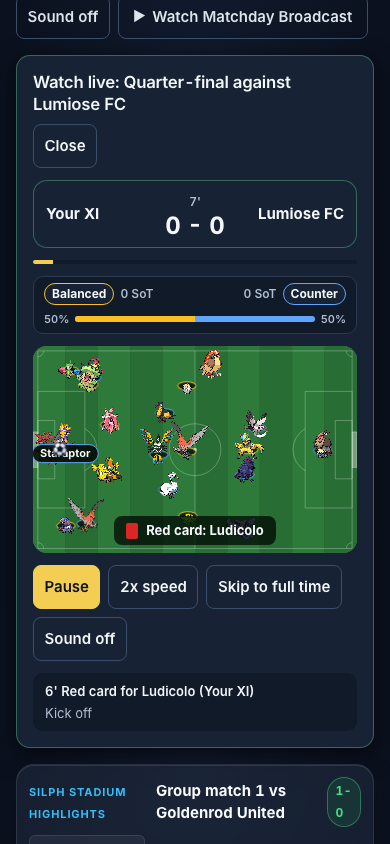
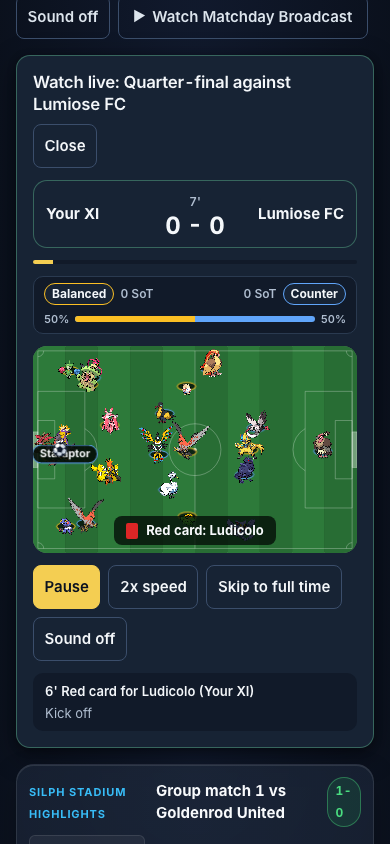
fix(matchday): paint walkers going off from the leaving list
The frame loop places each sprite by its slot. A player walking off is no
longer in their slot, so they now read their spot from stage.leaving, and a
walk starting or ending asks for a render.

Claude-Session: https://claude.ai/code/session_01MQWZLpWyCywZCsjVuuffWk

diff --git a/src/components/matchday/Broadcast.tsx b/src/components/matchday/Broadcast.tsx
@@ -83,6 +83,8 @@ function screenKey(
     play === null ? "" : `${play.side}${play.slot}:${play.callout.text}`,
     stage.ball.effect ?? "",
     carrier === null ? "" : `${carrier.side}${carrier.slot}`,
+    // Who is walking off: a walk starting or ending adds or drops a sprite.
+    (stage.leaving ?? []).map((p) => `${p.side}${p.slot}:${p.species ?? p.name}`).join(","),
     // The shootout: the kick in progress (and with it the sudden-death banner) and the kick dots.
     `${kicks}:${shots}`,
   ].join("|");
@@ -114,8 +116,15 @@ function put(el: Element | null, name: string, value: string): void {
   el.setAttribute(name, value);
 }
 
+/** A player sprite: their slot, and whether they are walking off rather than playing in it. */
+interface Tracked {
+  readonly side: Side;
+  readonly slot: number;
+  readonly leaving: boolean;
+}
+
 interface PitchNodes {
-  readonly players: Map<HTMLElement, { readonly side: Side; readonly slot: number }>;
+  readonly players: Map<HTMLElement, Tracked>;
   readonly ball: RefObject<HTMLDivElement | null>;
   readonly trail: RefObject<SVGSVGElement | null>;
   readonly playEffect: RefObject<HTMLDivElement | null>;
@@ -124,8 +133,10 @@ interface PitchNodes {
 
 /** Moves every staged thing on the pitch to where `stage` puts it. */
 function paint(nodes: PitchNodes, stage: PitchStage): void {
-  for (const [el, { side, slot }] of nodes.players) {
-    const p = stage.players[side][slot];
+  for (const [el, { side, slot, leaving }] of nodes.players) {
+    const p = leaving
+      ? stage.leaving?.find((w) => w.side === side && w.slot === slot)
+      : stage.players[side][slot];
     if (p) put(el, "style", place(p.point, "translate(-50%, -70%)"));
   }
   const { ball } = stage;
@@ -246,14 +257,18 @@ export function Broadcast({
     });
   const { active, stage } = frameAt({ clock, now, fired, kicks, kickProgress, speed });
 
-  const players = useRef(new Map<HTMLElement, { side: Side; slot: number }>());
+  const players = useRef(new Map<HTMLElement, Tracked>());
   const ballRef = useRef<HTMLDivElement>(null);
   const trailRef = useRef<SVGSVGElement>(null);
   const playEffectRef = useRef<HTMLDivElement>(null);
   const playBadgeRef = useRef<HTMLDivElement>(null);
   const track = useCallback((el: HTMLDivElement) => {
     const map = players.current;
-    map.set(el, { side: el.dataset.side as Side, slot: Number(el.dataset.slot) });
+    map.set(el, {
+      side: el.dataset.side as Side,
+      slot: Number(el.dataset.slot),
+      leaving: el.dataset.leaving !== undefined,
+    });
     return () => {
       map.delete(el);
     };
